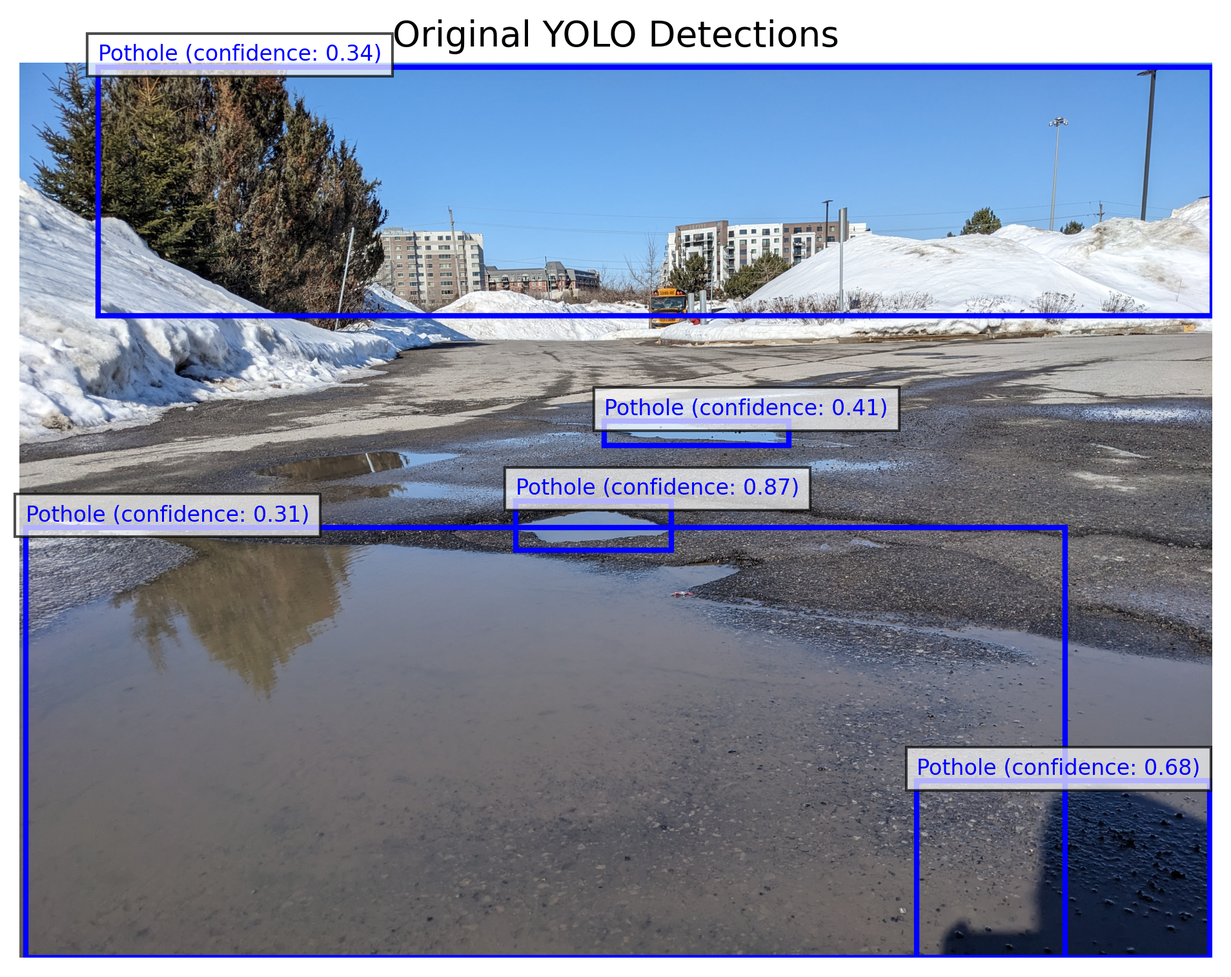
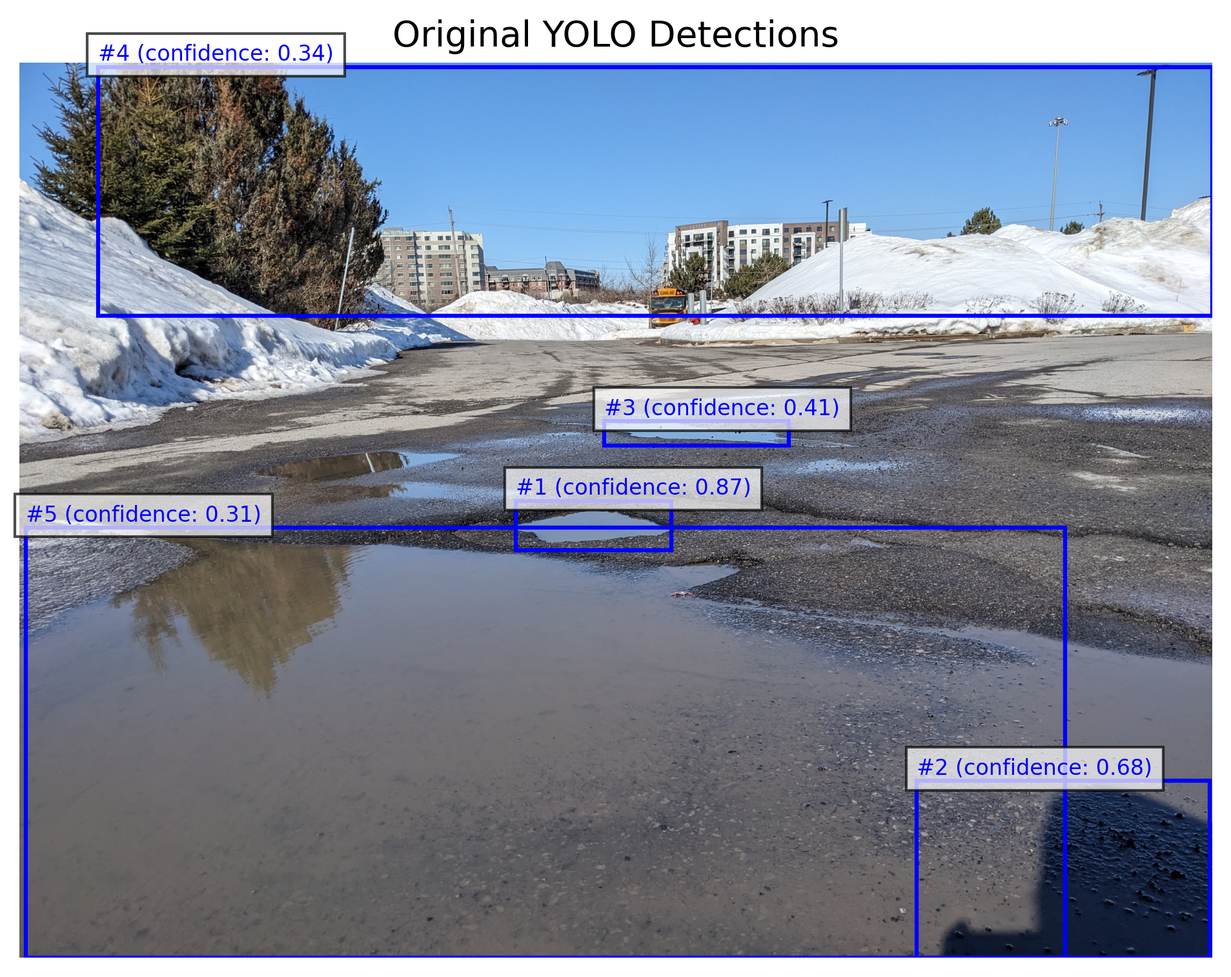
updated filtering logic

diff --git a/utils_lib/visualization.py b/utils_lib/visualization.py
@@ -69,10 +69,10 @@ def visualize_pipeline_results(pipeline_output, save_path):
         
         # Draw bounding box in blue for original detections
         rect = plt.Rectangle((x1, y1), x2-x1, y2-y1, fill=False, 
-                            edgecolor='blue', linewidth=2)
+                            edgecolor='blue', linewidth=1.5)
         ax[0, 1].add_patch(rect)
         if classType == 0:
-            label = f"Pothole {i+1} (confidence: {confidence:.2f})"
+            label = f"#{i+1} (confidence: {confidence:.2f})"
         else:
             label = f"{classType} (confidence: {confidence:.2f})"
         ax[0, 1].text(x1, y1-20, label, color='blue', fontsize=8,
@@ -124,16 +124,16 @@ def visualize_pipeline_results(pipeline_output, save_path):
         if is_on_road:
             # Green for potholes on road
             color = 'green'
-            label = f"Pothole {i+1} On Road (pixels on road: {percentage:.2f})"
+            label = f"#{i+1} On Road ({percentage:.2f})"
         else:
             # Red for potholes not on road
             color = 'red'
-            label = f"Pothole {i+1} Not on Road (pixels on road: {percentage:.2f})"
+            label = f"#{i+1} Not on Road ({percentage:.2f})"
         
         rect = plt.Rectangle((x1, y1), x2-x1, y2-y1, fill=False, 
-                            edgecolor=color, linewidth=4)
+                            edgecolor=color, linewidth=1.5)
         ax[1, 2].add_patch(rect)
-        ax[1, 2].text(x1, y1-20, label, color=color, fontsize=10,
+        ax[1, 2].text(x1, y1-20, label, color=color, fontsize=8,
                   bbox=dict(facecolor='white', alpha=0.7))
     
     plt.tight_layout()
@@ -164,10 +164,10 @@ def visualize_pipeline_results(pipeline_output, save_path):
     for i, (*bbox, confidence, classType) in enumerate(detections.xyxy[0].tolist()):
         x1, y1, x2, y2 = map(int, bbox)
         rect = plt.Rectangle((x1, y1), x2-x1, y2-y1, fill=False, 
-                            edgecolor='blue', linewidth=2)
+                            edgecolor='blue', linewidth=1.5)
         ax2.add_patch(rect)
         if classType == 0:
-            label = f"Pothole {i+1} (confidence: {confidence:.2f})"
+            label = f"#{i+1} (confidence: {confidence:.2f})"
         else:
             label = f"{classType} (confidence: {confidence:.2f})"
         ax2.text(x1, y1-20, label, color='blue', fontsize=8,
@@ -205,16 +205,16 @@ def visualize_pipeline_results(pipeline_output, save_path):
         if is_on_road:
             # Green for potholes on road
             color = 'green'
-            label = f"Pothole {i+1} On Road (pixels on road: {percentage:.2f})"
+            label = f"#{i+1} On Road ({percentage:.2f})"
         else:
             # Red for potholes not on road
             color = 'red'
-            label = f"Pothole {i+1} Not on Road (pixels on road: {percentage:.2f})"
+            label = f"#{i+1} Not on Road ({percentage:.2f})"
         
         rect = plt.Rectangle((x1, y1), x2-x1, y2-y1, fill=False, 
-                            edgecolor=color, linewidth=4)
+                            edgecolor=color, linewidth=1.5)
         ax5.add_patch(rect)
-        ax5.text(x1, y1-20, label, color=color, fontsize=10,
+        ax5.text(x1, y1-20, label, color=color, fontsize=8,
                  bbox=dict(facecolor='white', alpha=0.7))
     
     plt.savefig(os.path.join(save_path, f'{image_name}_4_filtered_detections.png'), dpi=300, bbox_inches='tight')
@@ -227,57 +227,51 @@ def visualize_depth_results(depth_results, save_path, image_name):
     depth_maps = depth_results.get('depth_maps', [])
     relative_depths = depth_results.get('relative_depths', [])
     normalized_depths = depth_results.get('normalized_depths', [])
-    
-    # Calculate grid size
-    n_potholes = len(cropped_potholes)
-    grid_size = math.ceil(math.sqrt(n_potholes * 2))
-    n_cols = min(grid_size, 4)
-    n_rows = math.ceil(n_potholes * 2 / n_cols)
-    
-    # Create figure for all pothole crops and depth maps
-    fig, axes = plt.subplots(n_rows, n_cols, figsize=(n_cols * 4, n_rows * 3))
-    fig.suptitle('Pothole Crops and Depth Maps', fontsize=16)
-    
-    # Flatten axes array if it's multi-dimensional
-    if n_rows > 1 or n_cols > 1:
-        axes = axes.flatten()
-    else:
-        axes = [axes]
-    
-    # Plot each pothole and its depth map
-    for i in range(n_potholes):
-        ax_idx = i * 2
-        if ax_idx < len(axes):
-            if i < len(cropped_potholes):
-                if cropped_potholes[i] is None: # check if images is None == pothole not on road
-                    continue
 
-                axes[ax_idx].imshow(cv2.cvtColor(cropped_potholes[i], cv2.COLOR_BGR2RGB))
-                
-                if i < len(relative_depths):
-                    relative_depth = relative_depths[i]
-                    normalized_depth = normalized_depths[i]
-                    axes[ax_idx].set_title(f"Pothole {i+1}\nDepth: {relative_depth:.2f} (Normalized: {normalized_depth:.2f})")
-                else:
-                    axes[ax_idx].set_title(f"Pothole {i+1}")
-                
-                axes[ax_idx].axis('off')
-        
-        # Depth map
-        ax_idx = i * 2 + 1
-        if ax_idx < len(axes) and i < len(depth_maps):
-            # Use viridis colormap for depth visualization
-            depth_map = depth_maps[i]
-            im = axes[ax_idx].imshow(depth_map, cmap='viridis')
-            axes[ax_idx].set_title(f"Depth Map {i+1}")
-            axes[ax_idx].axis('off')
-            
-            # Add colorbar
-            plt.colorbar(im, ax=axes[ax_idx], fraction=0.046, pad=0.04)
+    # Filter out None values (potholes not on road)
+    valid_indices = [i for i, crop in enumerate(cropped_potholes) if crop is not None]
+    potholes_on_road = len(valid_indices)
     
-    # Turn off any unused subplots
-    for j in range(n_potholes * 2, len(axes)):
-        axes[j].axis('off')
+    if potholes_on_road == 0:
+        # Handle case where no potholes are on the road
+        fig, ax = plt.subplots(figsize=(6, 3))
+        ax.text(0.5, 0.5, "No potholes detected on road", fontsize=12, ha='center')
+        ax.axis('off')
+    else:
+        # Create figure with 2 columns per pothole (image and depth map)
+        fig, axes = plt.subplots(potholes_on_road, 2, figsize=(8, 3 * potholes_on_road))
+        
+        # Handle case where only one pothole is detected (axes won't be 2D)
+        if potholes_on_road == 1:
+            axes = np.array([axes])  # Make it 2D
+            
+        fig.suptitle('Pothole Crops and Depth Maps', fontsize=12)
+        
+        # Plot each pothole and its depth map
+        for idx, i in enumerate(valid_indices):
+            # Pothole crop
+            axes[idx, 0].imshow(cv2.cvtColor(cropped_potholes[i], cv2.COLOR_BGR2RGB))
+            
+            if i < len(relative_depths):
+                relative_depth = relative_depths[i]
+                normalized_depth = normalized_depths[i]
+                axes[idx, 0].set_title(f"Pothole #{i+1}\nDepth: {relative_depth:.2f} (Normalized: {normalized_depth:.2f})")
+            else:
+                axes[idx, 0].set_title(f"Pothole #{i+1}")
+            
+            axes[idx, 0].axis('off')
+            
+            # Depth map
+            if i < len(depth_maps) and depth_maps[i] is not None:
+                im = axes[idx, 1].imshow(depth_maps[i], cmap='viridis')
+                axes[idx, 1].set_title(f"Depth Map #{i+1}")
+                axes[idx, 1].axis('off')
+                
+                # Add colorbar
+                plt.colorbar(im, ax=axes[idx, 1], fraction=0.046, pad=0.04)
+            else:
+                axes[idx, 1].text(0.5, 0.5, "No depth map available", ha='center')
+                axes[idx, 1].axis('off')
     
     plt.tight_layout()
     plt.subplots_adjust(top=0.95)  # Adjust for the suptitle
@@ -311,7 +305,7 @@ def create_results_file(filtered_detections, pothole_areas, save_path, image_pat
         f.write("Detailed results:\n")
         for i, (confidence, bbox, is_on_road, percentage) in enumerate(filtered_detections):
             status = "ON road" if is_on_road else "NOT on road"
-            f.write(f"Pothole {i+1}: {status}\n")
+            f.write(f"Pothole #{i+1}: {status}\n")
             f.write(f"    Bounding box: {[round(coord, 2) for coord in bbox]}\n")
             f.write(f"    Detection Confidence: {confidence:.2f}\n")
             f.write(f"    % Pixels in box which are road: {percentage:.2f}\n")

diff --git a/pipeline/pothole_filtering_stage.py b/pipeline/pothole_filtering_stage.py
@@ -18,6 +18,7 @@ class PotholeFilteringStage:
         # Get road mask and detections from previous stages
         # full_segmentation = road_segmentations['full_segmentation']
         road_mask = road_segmentations['road_mask']
+        full_seg = road_segmentations['full_segmentation']
         detections = pothole_detections
         
         # Filter detections based on road mask
@@ -51,11 +52,15 @@ class PotholeFilteringStage:
             # if minimum 60% are = road => assume pothole is on the road
             total_num_points = 0
             num_points_on_road = 0
+            num_points_on_vegetation = 0
 
             # DYNAMIC SCALING: ensures at least a step of 5 and scales with the size of the bounding box
-            total_area = (x2-x1)*(y2-y1)
-            step = max(5, int(math.sqrt(total_area) // 10)) 
+            # total_area = (x2-x1)*(y2-y1)
+            # step = max(5, int(math.sqrt(total_area) // 100))
+            # print(step)
+            # print("Total Area:",total_area)
 
+            step = 5
             for x in range(x1, x2, step):
                 for y in range(y1, y2, step):
                     x = x-1
@@ -64,12 +69,21 @@ class PotholeFilteringStage:
                         total_num_points += 1
                         if road_mask[y, x] == 1:
                             num_points_on_road += 1
+                        elif full_seg[y, x] == 8:
+                            num_points_on_vegetation += 1 
 
             percentage_pixels_on_road = (num_points_on_road / total_num_points)
+            percentage_pixels_on_vegetation = (num_points_on_vegetation / total_num_points)
+            print("Percentage of pixels on road:",percentage_pixels_on_road)
+            print("Percentage of pixels on vegetation:",percentage_pixels_on_vegetation)
+
             if percentage_pixels_on_road >= self.min_road_threshold:
                 is_on_road = True
+            elif confidence >= 0.80 and percentage_pixels_on_road >= 0.30:
+                is_on_road = True
+            elif confidence >= 0.75 and percentage_pixels_on_vegetation >= 0.5 and percentage_pixels_on_road >= 0.05:
+                is_on_road = True
             
-
             # Add to filtered detections with additional info
             filtered_detections.append((confidence, bbox, is_on_road, percentage_pixels_on_road))
             count += 1    

diff --git a/modules/road_segmentation.py b/modules/road_segmentation.py
@@ -64,25 +64,15 @@ class RoadSegmentation:
     
     def segment_image(self, image):
         """
-        Segment an image to get a road mask.
-        
-        Args:
-            image: PIL Image
-            
-        Returns:
-            road_mask: Binary numpy array with 1 for road pixels and 0 elsewhere
-            full_segmentation: Complete segmentation output with all classes
+        Segment an image with Cityscapes classes
         """
         with torch.no_grad():
-            # Transform image to tensor
-            img_tensor = self.transform(image).unsqueeze(0)  # Add batch dimension
-            img_tensor = img_tensor.to(self.device)
+            img_tensor = self.transform(image).unsqueeze(0)
             
-            # Forward pass
             outputs = self.model(img_tensor)
-            predictions = outputs.max(1)[1].cpu().numpy()[0]  # (H, W)
+            predictions = outputs.max(1)[1].cpu().numpy()[0]
             
-            # Create road mask (class index 1 is road in Cityscapes)
+            # Create road mask (class index 1 is road in Cityscapes but 0 is the one for road??)
             road_mask = (predictions == 0).astype(np.uint8)
             
             return road_mask, predictions

diff --git a/pipeline/depth_estimation_stage.py b/pipeline/depth_estimation_stage.py
@@ -50,7 +50,7 @@ class DepthEstimationStage:
                 # Normalize the depth by dividing the relative depth by the square root of the area
                 # Or else bigger potholes will have higher depth values than smaller potholes 
                 # regardless of the actual depth of the pothole.
-                normalized_depth = relative_depth / np.sqrt(pothole_areas[i]) * 1000
+                normalized_depth = relative_depth / np.sqrt(pothole_areas[i]) #* 1000
                 normalized_depths.append(normalized_depth)
 
                 print('Relative Depth:', relative_depth)
